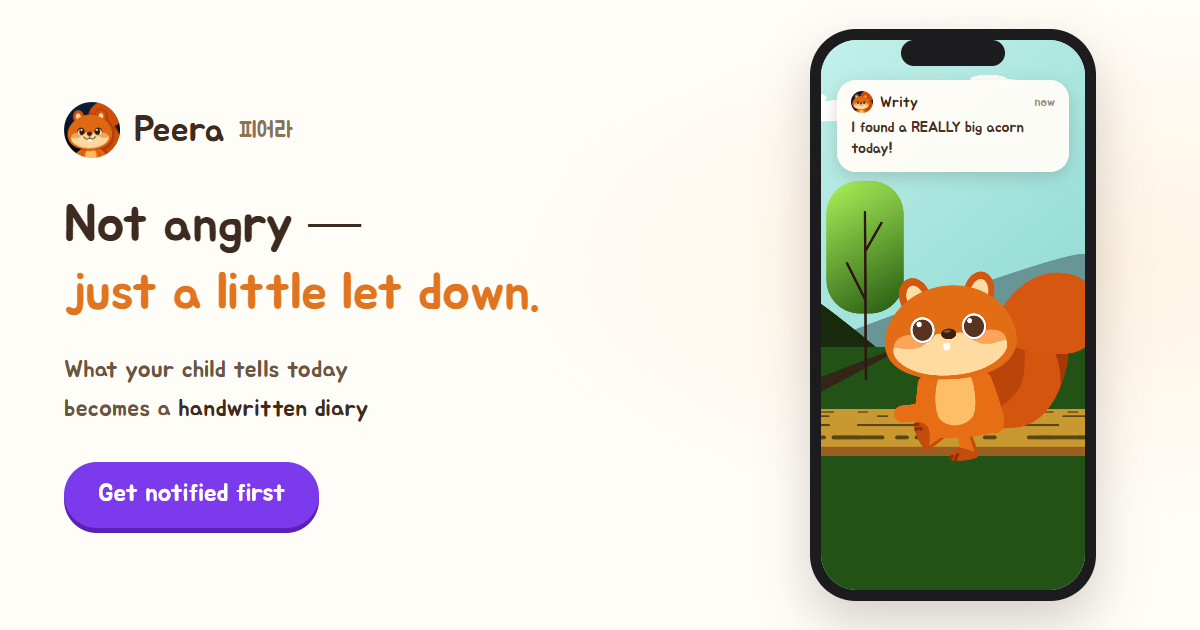
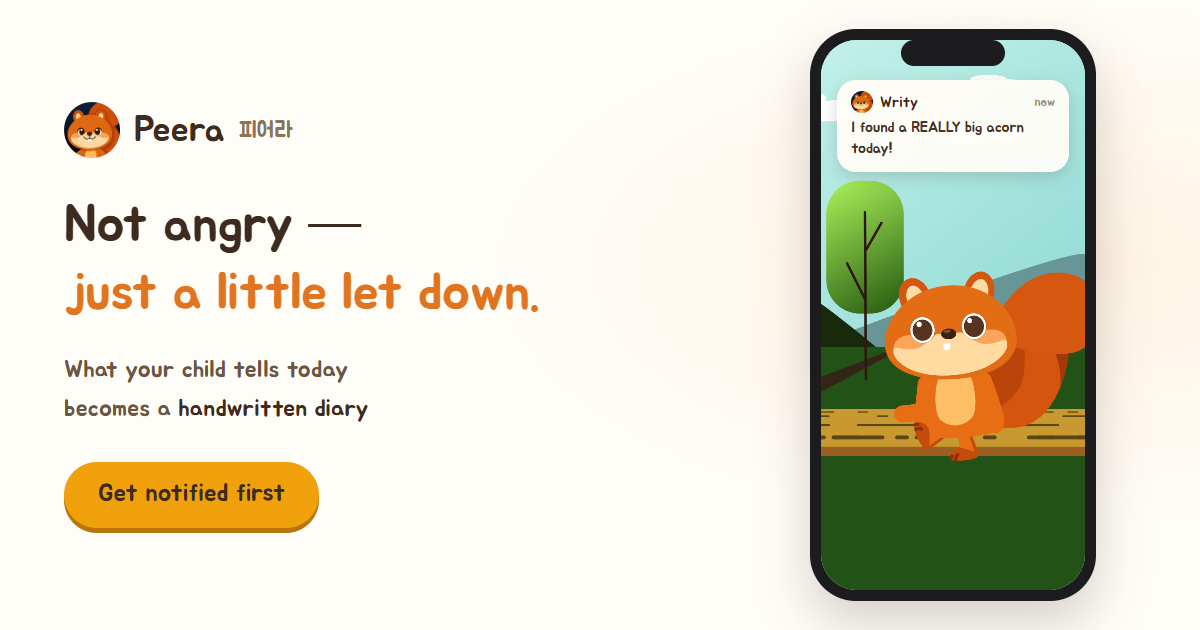
OG 카드 CTA 색을 사이트와 통일(보라→금색)
공유 미리보기(peera-og/-en) 버튼이 예전 보라(#7C3AED)로 남아 있어 사이트 금색 CTA(#EFA00B)와 어긋났던 것 수정. og-card*.html 버튼을 금색+잉크색 글씨로 맞추고 PNG 재생성.

Changed region(s): [[0.0308, 0.7238, 0.2775, 0.8444]]

diff --git a/tools/og-card-en.html b/tools/og-card-en.html
@@ -25,9 +25,10 @@
   .sub { margin-top:24px; font-size:24px; line-height:1.6; color:#6B5544; }
   .sub b { color:#3D2B1F; font-weight:400; }
 
-  .cta { display:inline-block; margin-top:34px; background:#7C3AED; color:#fff;
+  /* 사이트 CTA와 동일: 금색(#EFA00B) 배경 + 진한 잉크색 글씨 + 금색-다크 그림자 */
+  .cta { display:inline-block; margin-top:34px; background:#EFA00B; color:#3D2B1F;
          font-size:25px; padding:16px 34px 19px; border-radius:999px;
-         box-shadow:0 5px 0 #5B21B6; }
+         box-shadow:0 5px 0 #B8760A; }
 
   /* 폰 목업 — 본품 아트(writy-still.png)를 그대로 넣는다 */
   .right { flex:1; display:flex; justify-content:center; align-items:center; position:relative; }

diff --git a/tools/og-card.html b/tools/og-card.html
@@ -25,9 +25,10 @@
   .sub { margin-top:24px; font-size:24px; line-height:1.6; color:#6B5544; }
   .sub b { color:#3D2B1F; font-weight:400; }
 
-  .cta { display:inline-block; margin-top:34px; background:#7C3AED; color:#fff;
+  /* 사이트 CTA와 동일: 금색(#EFA00B) 배경 + 진한 잉크색 글씨 + 금색-다크 그림자 */
+  .cta { display:inline-block; margin-top:34px; background:#EFA00B; color:#3D2B1F;
          font-size:25px; padding:16px 34px 19px; border-radius:999px;
-         box-shadow:0 5px 0 #5B21B6; }
+         box-shadow:0 5px 0 #B8760A; }
 
   /* 폰 목업 — 본품 아트(writy-still.png)를 그대로 넣는다 */
   .right { flex:1; display:flex; justify-content:center; align-items:center; position:relative; }
